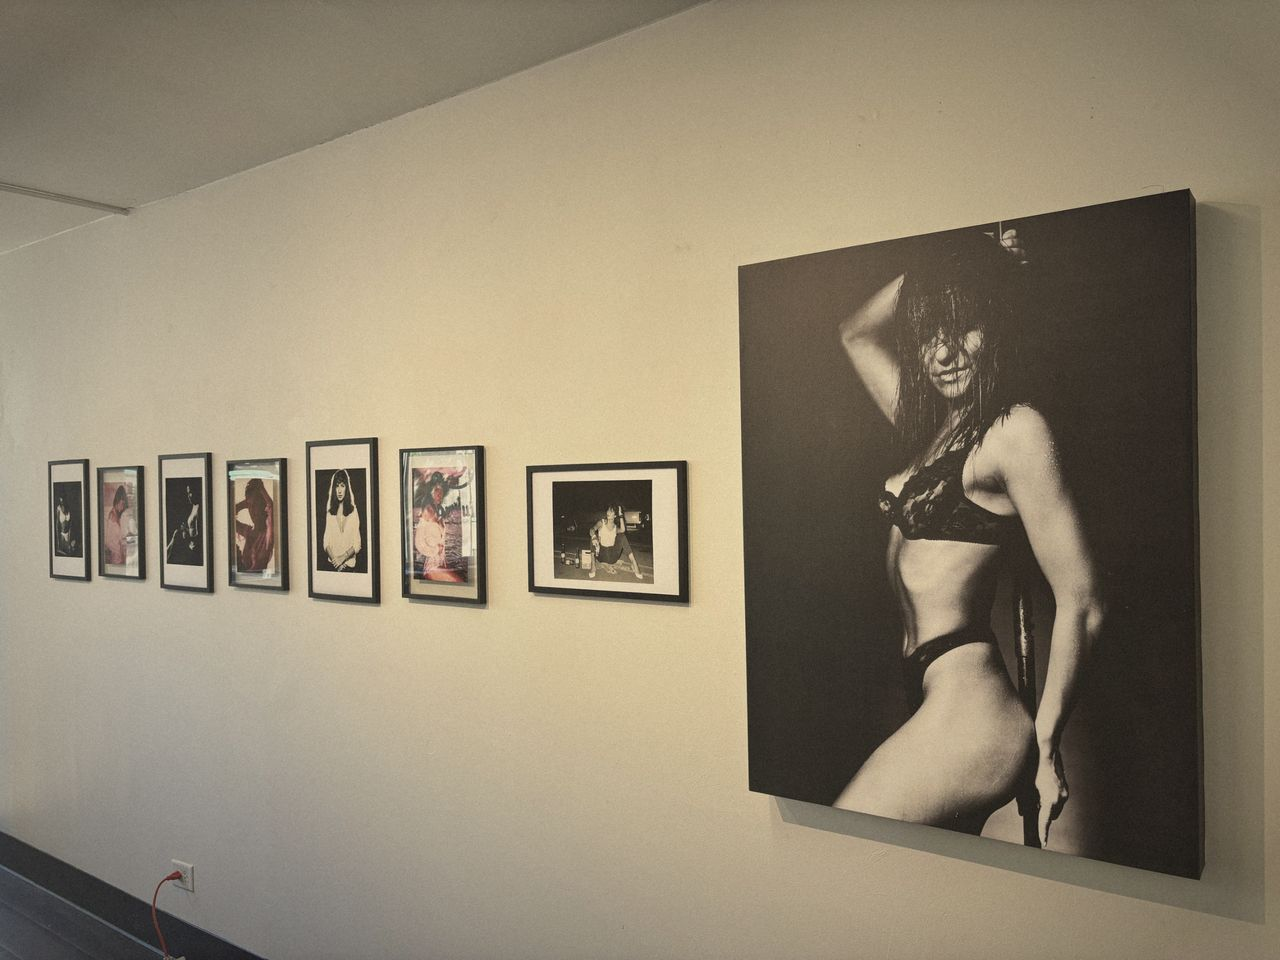
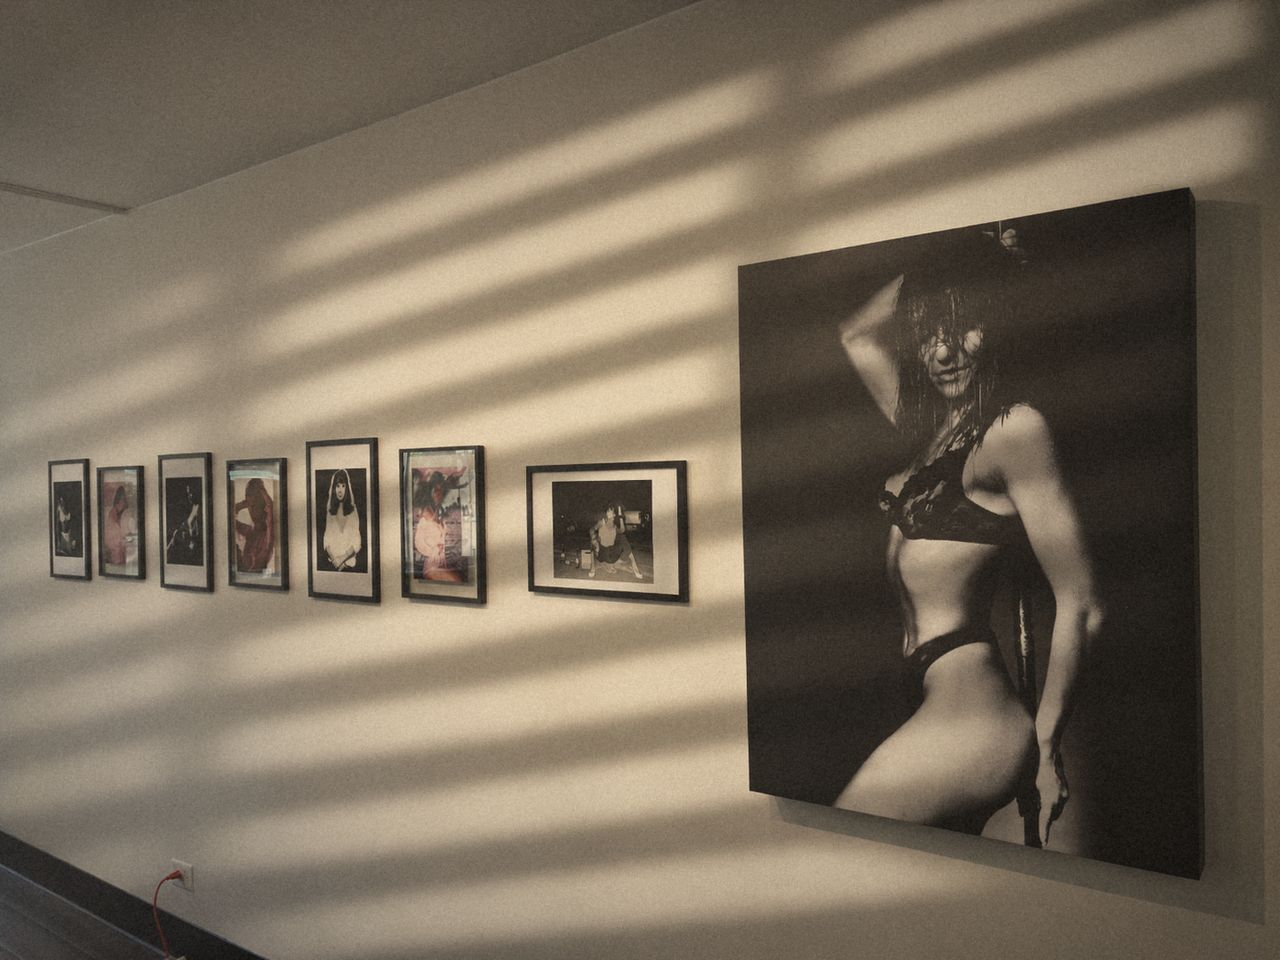
June 20: swap the main wall photo for the afternoon-light shot

diff --git a/index.html b/index.html
@@ -235,7 +235,7 @@
               data-full="media/img/night/wall.jpg"
               width="1280"
               height="960"
-              alt="The main wall: a row of framed prints and a large canvas"
+              alt="The main wall in afternoon light: blind shadows across a row of framed prints and a large canvas"
               loading="lazy"
             />
             <figcaption><span>the main wall</span><span>june 20</span></figcaption>
